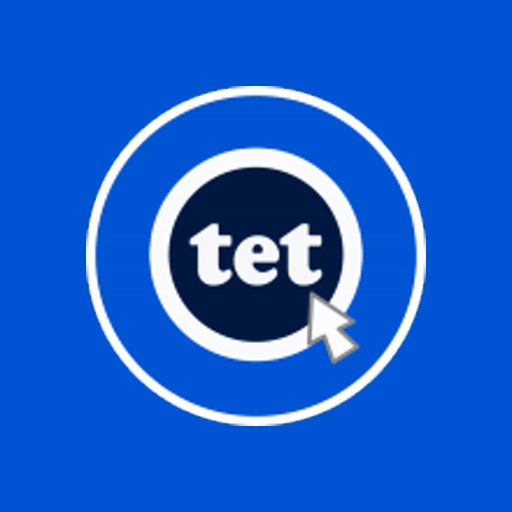
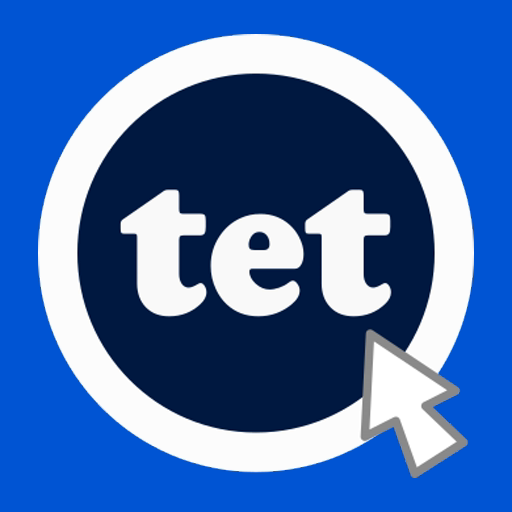
PWA: iconos con la imagen del header (Logotet.png, transparente) sobre fondo azul de marca + sw tet-admin-v5

diff --git a/sw.js b/sw.js
@@ -2,7 +2,7 @@
    Estrategias equivalentes al sw.js anterior:
    - html/js: NetworkFirst (y 5xx -> copia en caché)   - css: StaleWhileRevalidate
    - imágenes y fuentes: CacheFirst (máx 20, 7 días) */
-const VERSION = 'tet-admin-v4';
+const VERSION = 'tet-admin-v5';
 
 const CACHE_HTML = 'tet-html-' + VERSION;
 const CACHE_JS = 'tet-js-' + VERSION;
